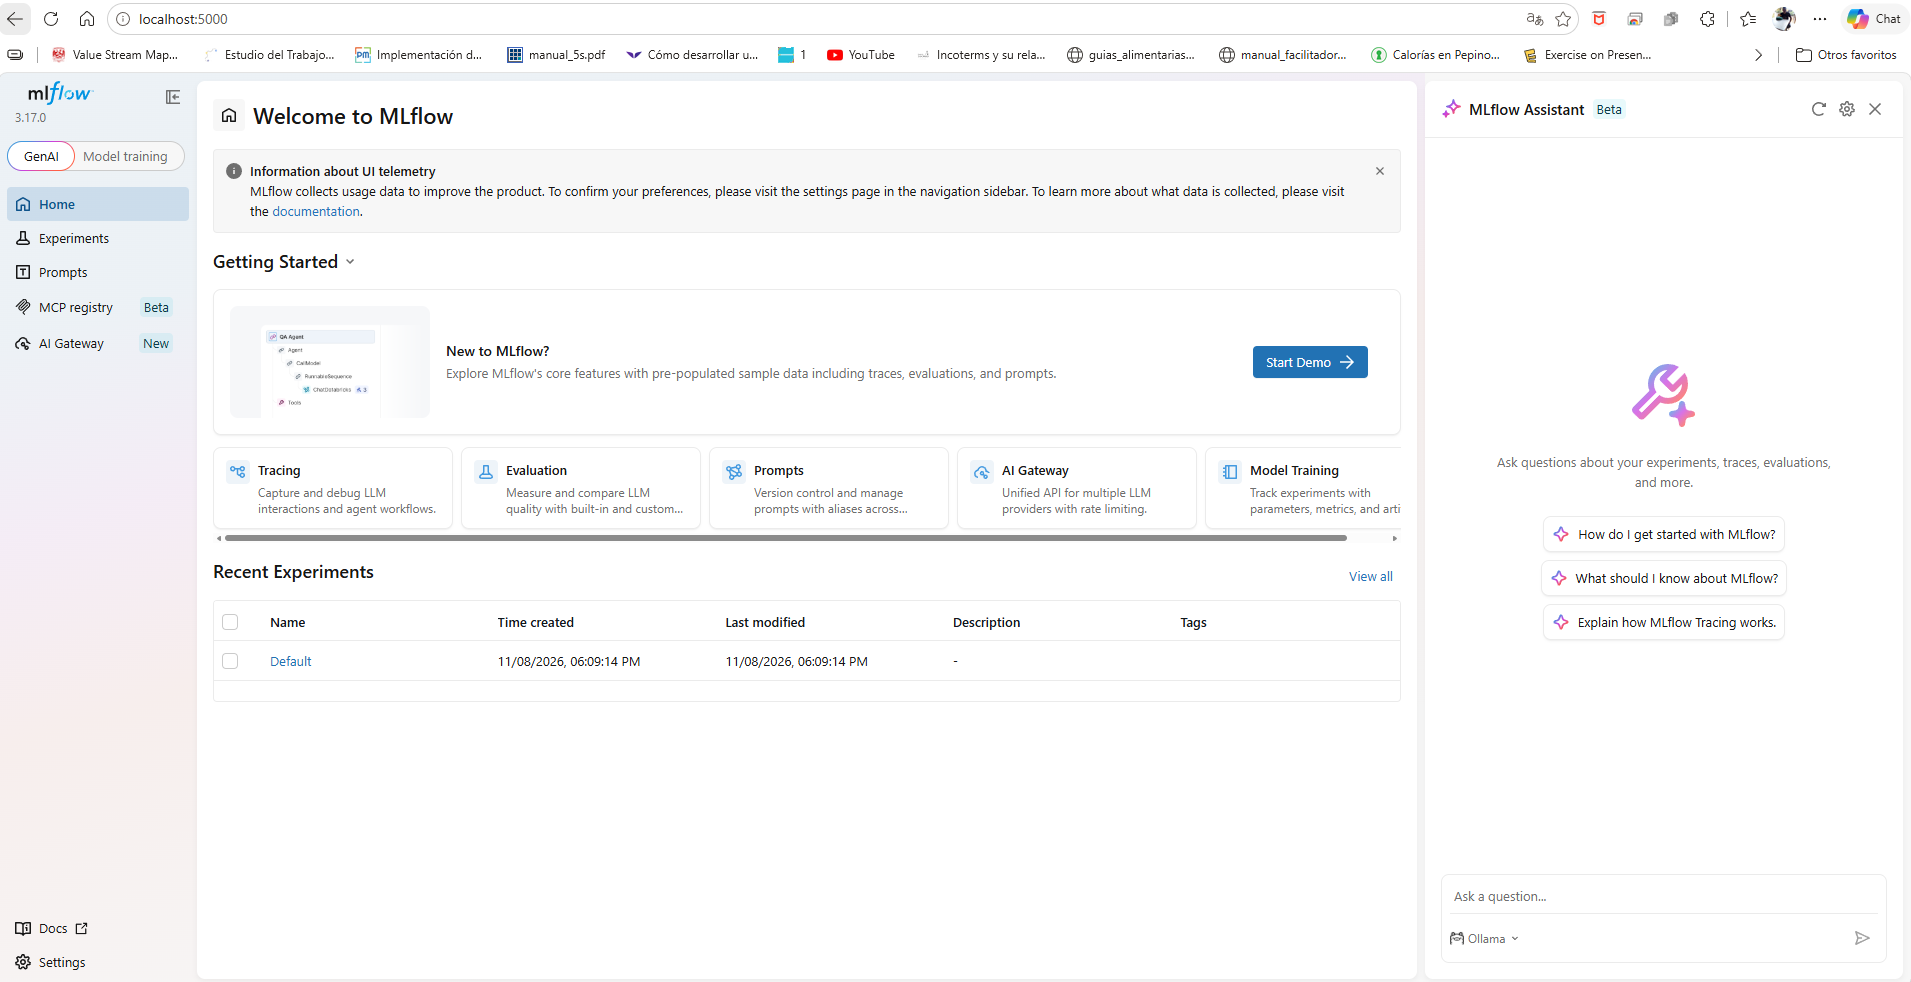
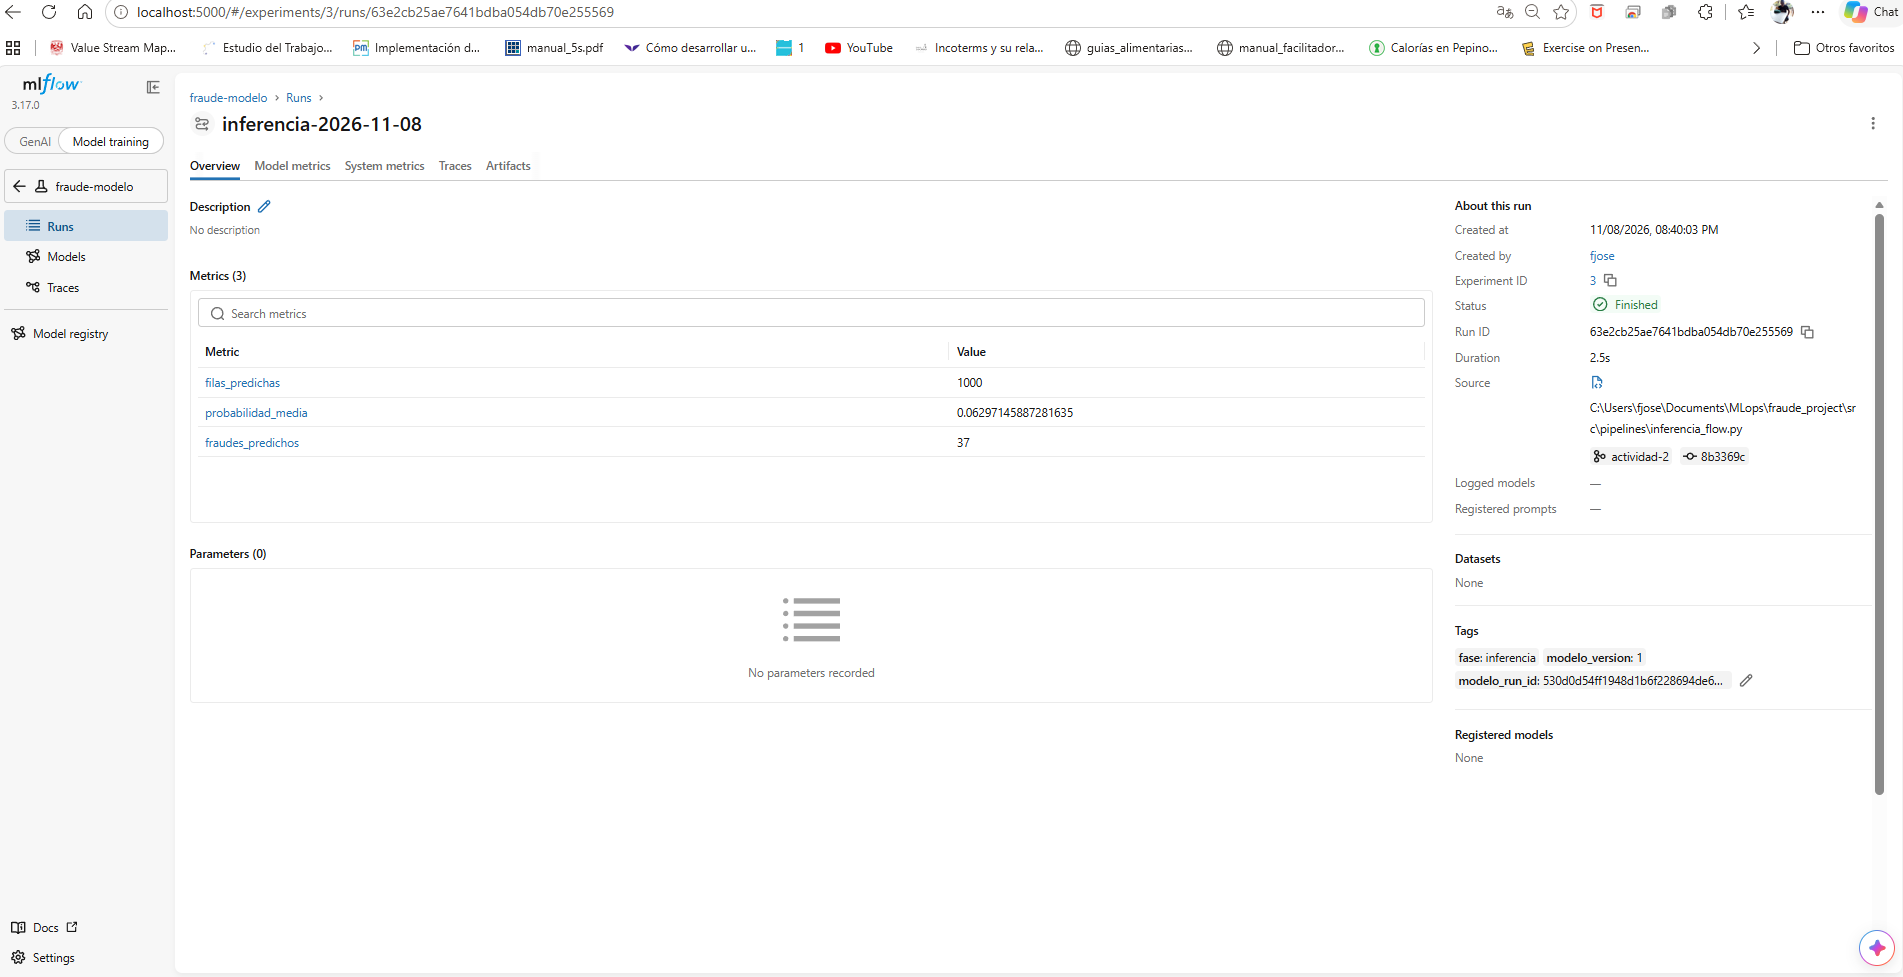
feat: pipeline de inferencia diaria con el modelo champion y registro en MLflow

diff --git a/src/pipelines/inferencia_flow.py b/src/pipelines/inferencia_flow.py
@@ -1,0 +1,89 @@
+"""Pipeline de inferencia diaria: cargar champion → ingesta del lote → predicción → guardar → registrar (actividad 2).
+
+Carga el modelo por su alias `champion` (no por un número de versión), así que cuando el
+entrenamiento promueve un nuevo champion, la inferencia lo usa sin cambiar código.
+El lote simula clientes nuevos con una muestra de test.csv (clientes sin etiqueta de fraude).
+
+Requisitos: servicios levantados, un champion registrado y las variables PREFECT_API_URL y MLFLOW_TRACKING_URI.
+Ejecución (desde la raíz del repositorio):
+    poetry run python -m src.pipelines.inferencia_flow
+"""
+import os
+from datetime import date
+from pathlib import Path
+
+import mlflow
+from mlflow.tracking import MlflowClient
+from prefect import flow, task
+from prefect.cache_policies import NO_CACHE
+
+from src.data.load_data import cargar_datos, leer_config
+
+
+@task(cache_policy=NO_CACHE)
+def cargar_champion(cfg):
+    """Carga el modelo con alias champion. Devuelve (modelo, versión, run de entrenamiento)."""
+    nombre = cfg["registro"]["nombre_modelo"]
+    version = MlflowClient().get_model_version_by_alias(nombre, "champion")
+    modelo = mlflow.sklearn.load_model(f"models:/{nombre}@champion")
+    print(f"Champion cargado: {nombre} v{version.version}")
+    return modelo, version.version, version.run_id
+
+
+#Ingesta
+
+@task(cache_policy=NO_CACHE)
+def ingesta_lote(cfg, hoy):
+    """Toma `tamano_lote` clientes de test.csv. La semilla es la fecha: el lote de un día es reproducible."""
+    df = cargar_datos("test", cfg)
+    lote = df.sample(n=cfg["inferencia"]["tamano_lote"], random_state=int(hoy.strftime("%Y%m%d")))
+    print(f"Lote de {len(lote)} clientes tomado de test.csv")
+    return lote
+
+
+#Predicción
+@task(cache_policy=NO_CACHE)
+def predecir_y_guardar(modelo, lote, cfg, hoy):
+    """Calcula la probabilidad de fraude y guarda el resultado en un CSV con la fecha de ejecución."""
+    proba = modelo.predict_proba(lote[list(modelo.feature_names_in_)])[:, 1]
+    resultado = lote.copy()
+    resultado["probabilidad_fraude"] = proba
+    resultado["prediccion"] = (proba >= cfg["metricas"]["umbral"]).astype(int)
+
+    carpeta = Path(cfg["inferencia"]["carpeta_salida"])
+    carpeta.mkdir(parents=True, exist_ok=True)
+    ruta = carpeta / f"prediccion_{hoy.isoformat()}.csv"
+    resultado.to_csv(ruta, index=False)
+    fraudes = int(resultado["prediccion"].sum())
+    print(f"Predicciones guardadas en {ruta} | fraudes predichos: {fraudes} de {len(resultado)}")
+    # Solo valores simples, para que Prefect los pase entre tareas sin problemas.
+    return str(ruta), len(resultado), float(proba.mean()), fraudes
+
+
+#Registro
+@task
+def registrar_inferencia(version, run_id_entrenamiento, ruta, filas, proba_media, fraudes, hoy):
+    """Run de MLflow con tag fase=inferencia, enlazado a la versión del modelo y a su run de entrenamiento."""
+    with mlflow.start_run(run_name=f"inferencia-{hoy.isoformat()}"):
+        mlflow.set_tags({"fase": "inferencia", "modelo_version": version, "modelo_run_id": run_id_entrenamiento})
+        mlflow.log_metrics({"filas_predichas": filas, "probabilidad_media": proba_media, "fraudes_predichos": fraudes})
+        mlflow.log_artifact(ruta)
+    print(f"Run de inferencia registrado (modelo v{version})")
+
+
+@flow(name="inferencia-fraude", log_prints=True)
+def inferencia_flow():
+    cfg = leer_config()
+    mlflow.set_tracking_uri(os.environ.get("MLFLOW_TRACKING_URI", cfg["mlflow"]["tracking_uri"]))
+    mlflow.set_experiment(cfg["mlflow"]["experimento_modelo"])
+    hoy = date.today()
+
+    modelo, version, run_id_entrenamiento = cargar_champion(cfg)
+    lote = ingesta_lote(cfg, hoy)
+    ruta, filas, proba_media, fraudes = predecir_y_guardar(modelo, lote, cfg, hoy)
+    registrar_inferencia(version, run_id_entrenamiento, ruta, filas, proba_media, fraudes, hoy)
+
+
+if __name__ == "__main__":
+    inferencia_flow()
+    
